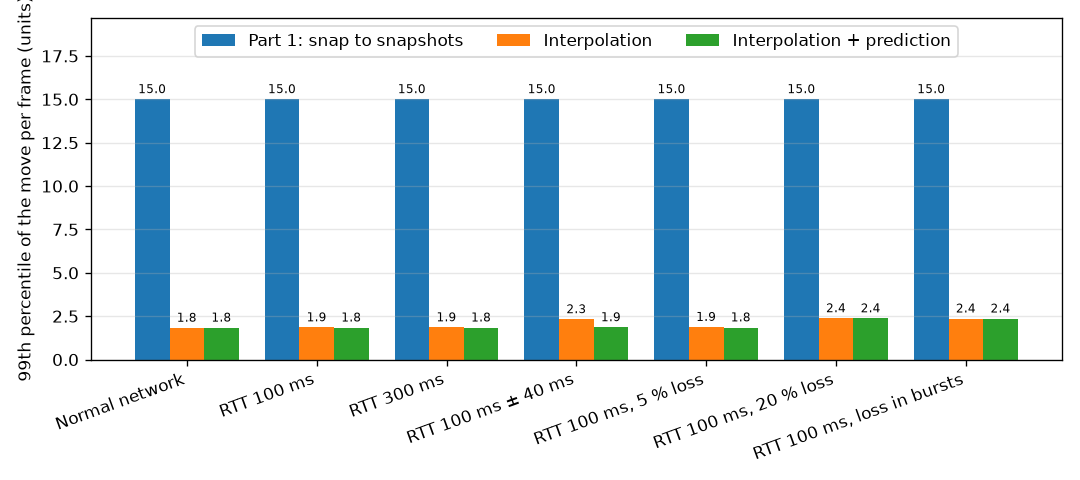
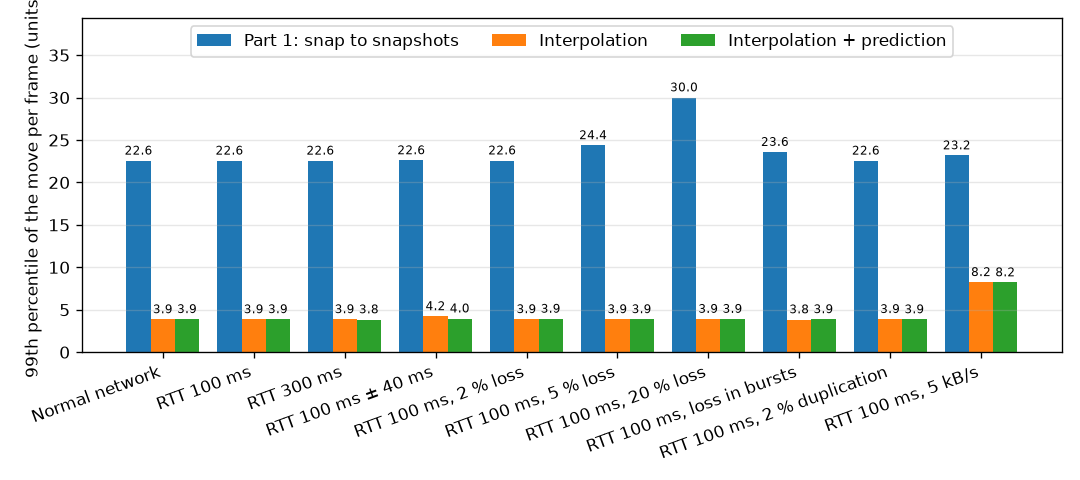
(network) docs: duplication and low bandwidth results
Add the 2 % loss, 2 % duplication and 5 kB/s scenarios to the network
benchmark and the testing guide, with new measures and their limits.
Closes #101.

diff --git a/tools/netbench.py b/tools/netbench.py
@@ -47,9 +47,12 @@ SCENARIOS = {
     "latency": ("RTT 100 ms", "delay 50ms"),
     "high-latency": ("RTT 300 ms", "delay 150ms"),
     "jitter": ("RTT 100 ms ± 40 ms", "delay 50ms 20ms"),
+    "loss-2": ("RTT 100 ms, 2 % loss", "delay 50ms loss 2%"),
     "loss-5": ("RTT 100 ms, 5 % loss", "delay 50ms loss 5%"),
     "loss-20": ("RTT 100 ms, 20 % loss", "delay 50ms loss 20%"),
     "bursts": ("RTT 100 ms, loss in bursts", "delay 50ms loss gemodel 1% 30%"),
+    "duplicate": ("RTT 100 ms, 2 % duplication", "delay 50ms duplicate 2%"),
+    "bandwidth": ("RTT 100 ms, 5 kB/s", "delay 50ms rate 40kbit"),
 }
 
 # Name, client options.

diff --git a/docs/NETWORK_COMPARISON.md b/docs/NETWORK_COMPARISON.md
@@ -29,7 +29,7 @@ changes, so any difference comes from it.
 - **Network conditions:** the scenarios of the
   [network testing guide](NETWORK_TESTING.md), applied with `tc netem` to the
   game's UDP traffic on the loopback interface: normal network, latency, high
-  latency, jitter, random loss and loss in bursts.
+  latency, jitter, random loss, loss in bursts, duplication and low bandwidth.
 - **Same game every time:** each run starts a fresh server with
   `--invincible`, so the measured ship never dies, and one client with
   `--bench`.
@@ -54,67 +54,82 @@ changes, so any difference comes from it.
 
 <!-- results:begin -->
 
-Generated by `tools/netbench.py` on 2026-11-03: 30 s per run, client at about 240 frames per second.
+Generated by `tools/netbench.py` on 2026-11-05: 30 s per run, client at about 240 frames per second.
 
 **Input-to-display delay of the local ship, median (95th percentile), in ms**
 
 | Scenario | Part 1: snap to snapshots | Interpolation | Interpolation + prediction |
 |---|---:|---:|---:|
-| Normal network | 47 (56) | 50 (56) | 0 (6) |
-| RTT 100 ms | 142 (148) | 142 (148) | 0 (6) |
-| RTT 300 ms | 351 (359) | 353 (359) | 0 (6) |
-| RTT 100 ms ± 40 ms | 106 (168) | 134 (159) | 0 (5) |
-| RTT 100 ms, 5 % loss | 147 (151) | 150 (200) | 0 (6) |
-| RTT 100 ms, 20 % loss | 153 (250) | 153 (203) | 0 (6) |
-| RTT 100 ms, loss in bursts | 147 (192) | 147 (197) | 0 (5) |
+| Normal network | 53 (61) | 42 (50) | 0 (0) |
+| RTT 100 ms | 150 (158) | 147 (155) | 0 (5) |
+| RTT 300 ms | 345 (350) | 342 (350) | 0 (0) |
+| RTT 100 ms ± 40 ms | 139 (158) | 142 (153) | 0 (0) |
+| RTT 100 ms, 2 % loss | 150 (156) | 151 (158) | 0 (7) |
+| RTT 100 ms, 5 % loss | 147 (192) | 148 (156) | 0 (0) |
+| RTT 100 ms, 20 % loss | 151 (253) | 150 (197) | 0 (8) |
+| RTT 100 ms, loss in bursts | 153 (159) | 149 (202) | 0 (0) |
+| RTT 100 ms, 2 % duplication | 150 (156) | 153 (158) | 0 (0) |
+| RTT 100 ms, 5 kB/s | 197 (885), 13 missed | 189 (976), 14 missed | 0 (0) |
 
 **Frames where a synced entity is frozen on screen**
 
 | Scenario | Part 1: snap to snapshots | Interpolation | Interpolation + prediction |
 |---|---:|---:|---:|
-| Normal network | 91.6 % | 2.3 % | 2.7 % |
-| RTT 100 ms | 91.7 % | 2.9 % | 2.8 % |
-| RTT 300 ms | 91.7 % | 2.8 % | 2.5 % |
-| RTT 100 ms ± 40 ms | 91.7 % | 2.8 % | 2.7 % |
-| RTT 100 ms, 5 % loss | 92.1 % | 2.7 % | 2.8 % |
-| RTT 100 ms, 20 % loss | 93.3 % | 2.7 % | 2.8 % |
-| RTT 100 ms, loss in bursts | 92.0 % | 2.7 % | 2.8 % |
+| Normal network | 91.7 % | 1.5 % | 1.5 % |
+| RTT 100 ms | 91.7 % | 1.5 % | 1.5 % |
+| RTT 300 ms | 91.7 % | 1.5 % | 1.5 % |
+| RTT 100 ms ± 40 ms | 91.5 % | 1.5 % | 1.5 % |
+| RTT 100 ms, 2 % loss | 91.9 % | 1.5 % | 1.5 % |
+| RTT 100 ms, 5 % loss | 92.1 % | 1.5 % | 1.5 % |
+| RTT 100 ms, 20 % loss | 93.5 % | 1.6 % | 1.6 % |
+| RTT 100 ms, loss in bursts | 91.9 % | 1.5 % | 1.5 % |
+| RTT 100 ms, 2 % duplication | 91.7 % | 1.5 % | 1.5 % |
+| RTT 100 ms, 5 kB/s | 94.8 % | 1.3 % | 1.3 % |
 
 **99th percentile of the move of an entity in one frame, in playfield units**
 
 | Scenario | Part 1: snap to snapshots | Interpolation | Interpolation + prediction |
 |---|---:|---:|---:|
-| Normal network | 15.0 | 1.8 | 1.8 |
-| RTT 100 ms | 15.0 | 1.9 | 1.8 |
-| RTT 300 ms | 15.0 | 1.9 | 1.8 |
-| RTT 100 ms ± 40 ms | 15.0 | 2.3 | 1.9 |
-| RTT 100 ms, 5 % loss | 15.0 | 1.9 | 1.8 |
-| RTT 100 ms, 20 % loss | 15.0 | 2.4 | 2.4 |
-| RTT 100 ms, loss in bursts | 15.0 | 2.4 | 2.4 |
+| Normal network | 22.6 | 3.9 | 3.9 |
+| RTT 100 ms | 22.6 | 3.9 | 3.9 |
+| RTT 300 ms | 22.6 | 3.9 | 3.8 |
+| RTT 100 ms ± 40 ms | 22.6 | 4.2 | 4.0 |
+| RTT 100 ms, 2 % loss | 22.6 | 3.9 | 3.9 |
+| RTT 100 ms, 5 % loss | 24.4 | 3.9 | 3.9 |
+| RTT 100 ms, 20 % loss | 30.0 | 3.9 | 3.9 |
+| RTT 100 ms, loss in bursts | 23.6 | 3.8 | 3.9 |
+| RTT 100 ms, 2 % duplication | 22.6 | 3.9 | 3.9 |
+| RTT 100 ms, 5 kB/s | 23.2 | 8.2 | 8.2 |
 
 **Corrections of the predicted ship per second, and their median size in playfield units**
 
 | Scenario | Part 1: snap to snapshots | Interpolation | Interpolation + prediction |
 |---|---:|---:|---:|
-| Normal network | n/a | n/a | 6.1 (0.1) |
-| RTT 100 ms | n/a | n/a | 6.2 (0.1) |
-| RTT 300 ms | n/a | n/a | 5.7 (0.1) |
-| RTT 100 ms ± 40 ms | n/a | n/a | 6.8 (2.5) |
-| RTT 100 ms, 5 % loss | n/a | n/a | 5.9 (0.2) |
-| RTT 100 ms, 20 % loss | n/a | n/a | 4.7 (0.8) |
-| RTT 100 ms, loss in bursts | n/a | n/a | 5.8 (0.3) |
+| Normal network | n/a | n/a | 7.0 (8.5) |
+| RTT 100 ms | n/a | n/a | 6.9 (8.4) |
+| RTT 300 ms | n/a | n/a | 6.8 (8.4) |
+| RTT 100 ms ± 40 ms | n/a | n/a | 6.8 (8.5) |
+| RTT 100 ms, 2 % loss | n/a | n/a | 6.8 (8.4) |
+| RTT 100 ms, 5 % loss | n/a | n/a | 5.9 (8.2) |
+| RTT 100 ms, 20 % loss | n/a | n/a | 5.9 (8.4) |
+| RTT 100 ms, loss in bursts | n/a | n/a | 6.7 (8.3) |
+| RTT 100 ms, 2 % duplication | n/a | n/a | 6.9 (8.3) |
+| RTT 100 ms, 5 kB/s | n/a | n/a | 21.8 (2.6) |
 
 **Traffic of the client, received / sent, in bytes per second**
 
 | Scenario | Part 1: snap to snapshots | Interpolation | Interpolation + prediction |
 |---|---:|---:|---:|
-| Normal network | 3820 / 4058 | 4103 / 4074 | 5544 / 4074 |
-| RTT 100 ms | 5243 / 4074 | 8157 / 4074 | 6581 / 4074 |
-| RTT 300 ms | 8346 / 4073 | 7217 / 4074 | 5626 / 4074 |
-| RTT 100 ms ± 40 ms | 4942 / 4074 | 6252 / 4007 | 5931 / 4074 |
-| RTT 100 ms, 5 % loss | 4850 / 4074 | 5034 / 4074 | 6349 / 4074 |
-| RTT 100 ms, 20 % loss | 4715 / 4074 | 3589 / 4072 | 4024 / 4074 |
-| RTT 100 ms, loss in bursts | 5163 / 4074 | 4744 / 4074 | 5080 / 4074 |
+| Normal network | 3524 / 520 | 3525 / 517 | 3525 / 519 |
+| RTT 100 ms | 3538 / 518 | 3537 / 518 | 3536 / 518 |
+| RTT 300 ms | 3561 / 519 | 3560 / 518 | 3562 / 521 |
+| RTT 100 ms ± 40 ms | 3527 / 526 | 3531 / 521 | 3527 / 520 |
+| RTT 100 ms, 2 % loss | 3438 / 519 | 3444 / 519 | 3463 / 518 |
+| RTT 100 ms, 5 % loss | 3363 / 522 | 3372 / 517 | 3359 / 518 |
+| RTT 100 ms, 20 % loss | 2769 / 519 | 2775 / 517 | 2814 / 519 |
+| RTT 100 ms, loss in bursts | 3446 / 520 | 3458 / 520 | 3469 / 520 |
+| RTT 100 ms, 2 % duplication | 3602 / 520 | 3584 / 518 | 3593 / 519 |
+| RTT 100 ms, 5 kB/s | 2403 / 518 | 2403 / 522 | 2404 / 518 |
 
 ![Median input-to-display delay (ms)](images/network-comparison/netbench-delay.png)
 
@@ -129,10 +144,10 @@ Generated by `tools/netbench.py` on 2026-11-03: 30 s per run, client at about 24
 **Smoothness: interpolation removes the stutter.** The server sends 20
 snapshots per second and the client draws about 240 frames per second. When it
 snaps to each snapshot, an entity stays still for 11 frames out of 12 (92 %
-frozen frames) and then jumps its whole 50 ms move at once (15 units for an
-enemy). With interpolation it moves a little on every frame: under 3 % frozen
-frames, and the largest per-frame moves are about 8 times smaller. The
-remaining 3 % are mostly new entities, which wait about 100 ms at their spawn
+frozen frames) and then jumps its whole 50 ms move at once (over 20 units for
+the fastest ones). With interpolation it moves a little on every frame: under
+2 % frozen frames, and the largest per-frame moves are about 6 times smaller.
+The remaining 1.5 % are mostly new entities, which wait about 100 ms at their spawn
 point for the render clock to reach their first snapshot.
 
 **Robust to the network.** The interpolation figures barely move from a
@@ -146,23 +161,51 @@ and its snapshot has come back: about 50 ms on a perfect network (waiting for
 the next snapshot), then the round-trip time plus 50 ms (about 150 ms at
 100 ms RTT, 350 ms at 300 ms RTT, up to 250 ms with 20 % loss).
 Interpolation does not change this. With prediction, the ship moves in the
-very frame of the key press (0 ms median, under 6 ms in 95 % of the presses,
-that is one frame), whatever the network.
+very frame of the key press (0 ms median, at most two frames in 95 % of the
+presses), whatever the network.
 
-**The server stays in charge.** The predicted ship is corrected about 6 times
-per second, each time a snapshot shows a small difference with the
-prediction. On a stable network these corrections are tiny (a tenth of a unit,
-the ship is 64 units wide): the client moves the ship with the same code as
-the server. They grow with jitter (2.5 units) and heavy loss (0.8 units),
-because the server then applies the inputs at less regular times. Each
-correction fades out over about 0.3 s instead of being drawn as a jump.
+**The server stays in charge.** While the ship moves, each snapshot corrects
+the prediction by about 8 units (the ship is 64 units wide), and at most about
+18. This comes from the input rate: between two inputs the server keeps moving
+the ship while the client also replays these frames, so the difference depends
+on when the last input arrived. Each correction fades out over about 0.3 s
+instead of being drawn as a jump. Measured on a normal network at 240 frames
+per second:
 
-**Bandwidth is unchanged.** Interpolation and prediction add no packet. The
-version 2 protocol adds 4 bytes per player to each snapshot (`lastInput`). The
-received traffic varies between runs (about 3.5 to 8 kB/s) with the number of
-enemies on screen, not with the mode. The client sends about 4 kB/s because
-it sends one input per displayed frame: at 240 frames per second, this is the
-main cost of the upload, and a fixed input rate would reduce it.
+| Time between two inputs | Median correction | 95th percentile | Largest | Sent |
+|---:|---:|---:|---:|---:|
+| One input per frame (about 4 ms) | 0.3 | 2.9 | 4.2 | 4030 B/s |
+| 16 ms, like a client at 60 frames per second | 0.1 | 12.6 | 14.4 | 1020 B/s |
+| 30 ms (kept) | 8.3 | 14.7 | 17.8 | 520 B/s |
+
+**Inputs: a fixed rate for every frame rate.** The client used to send one
+input per displayed frame, which is 4 kB/s at 240 frames per second, and about
+11 kB/s with the packet headers. It now sends one when the actions change, and
+otherwise every 30 ms. The keys still reach the server as soon as they change,
+and the upload is divided by 8. Interpolation and prediction add no packet:
+the received traffic does not depend on the mode.
+
+**Duplication and loss: no effect beyond the lost data.** With 2 % duplication
+the figures are the same as without it. With 50 % duplication, in a separate
+20 s run, the server logged no warning and neither program failed: inputs and
+snapshots older than the newest are ignored, and reliable messages are
+delivered once. 2 % loss barely differs from 5 %.
+
+**Low bandwidth: playable for a few seconds, then late.** The 5 kB/s scenario
+limits both directions together. Before the fixed input rate, the inputs alone
+filled this limit: the client received about 530 B/s and none of the key
+presses of a 12 s run was shown. Now the game needs about 6.1 kB/s with the
+headers (4.4 kB/s of snapshots, 1.8 kB/s of inputs). The first 7 seconds run
+with about 190 ms of delay, then the queue fills as enemies appear: the delay
+reaches about 900 ms after 10 s, and about half of the presses are not shown
+within the 1 s window (13 "missed" above). Limiting each direction to 5 kB/s
+instead, as a real link would, is better but not enough: in a separate 30 s
+run the delay stays around 180 ms for 11 s, then rises above 1 s when enemies
+are numerous, and comes back down afterwards (5 presses out of 29 missed).
+Nothing crashes or disconnects in either case, and the local ship stays
+responsive thanks to prediction. Holding at 5 kB/s would need smaller
+snapshots or fewer of them: every snapshot sends all the entities, 20 times
+per second.
 
 **Costs and limits.**
 
@@ -196,7 +239,7 @@ with their charts in `docs/images/network-comparison/`. Useful options:
 |--------|--------|
 | `run` / `report` | Only measure, or only rewrite the results from the last measures. |
 | `-d SECONDS` | Duration of each run (default 30). |
-| `-s SCENARIO...` | Only some scenarios: `normal`, `latency`, `high-latency`, `jitter`, `loss-5`, `loss-20`, `bursts`. |
+| `-s SCENARIO...` | Only some scenarios: `normal`, `latency`, `high-latency`, `jitter`, `loss-2`, `loss-5`, `loss-20`, `bursts`, `duplicate`, `bandwidth`. |
 | `-m MODE...` | Only some client modes: `snap`, `interpolation`, `prediction`. The report keeps the last measures of the other modes. |
 | `--no-netem` | Measure the current network without `tc` (one "normal" run per mode). |
 | `--no-charts` | Tables only, without installing matplotlib. |

diff --git a/docs/NETWORK_TESTING.md b/docs/NETWORK_TESTING.md
@@ -1,10 +1,10 @@
 # Testing under a degraded network
 
 This guide shows how to play R-Type on one machine as if the players were far
-from the server: added latency, jitter and packet loss. It uses `tc netem`,
-the Linux network emulator, on the loopback interface, and only slows down the
-game's traffic (UDP port 4242). Everything else on the machine keeps its normal
-speed.
+from the server: added latency, jitter, packet loss, duplication and low
+bandwidth. It uses `tc netem`, the Linux network emulator, on the loopback
+interface, and only slows down the game's traffic (UDP port 4242). Everything
+else on the machine keeps its normal speed.
 
 ## Contents
 
@@ -70,14 +70,22 @@ trip time (RTT) of about 100 ms.
 | Latency (RTT ~100 ms) | `sudo tc qdisc change dev lo parent 1:3 handle 30: netem delay 50ms` |
 | High latency (RTT ~300 ms) | `sudo tc qdisc change dev lo parent 1:3 handle 30: netem delay 150ms` |
 | Jitter (50 ms ± 20 ms, packets reordered) | `sudo tc qdisc change dev lo parent 1:3 handle 30: netem delay 50ms 20ms` |
+| 2 % packet loss | `sudo tc qdisc change dev lo parent 1:3 handle 30: netem delay 50ms loss 2%` |
 | 5 % packet loss | `sudo tc qdisc change dev lo parent 1:3 handle 30: netem delay 50ms loss 5%` |
 | 20 % packet loss | `sudo tc qdisc change dev lo parent 1:3 handle 30: netem delay 50ms loss 20%` |
 | Loss in bursts | `sudo tc qdisc change dev lo parent 1:3 handle 30: netem delay 50ms loss gemodel 1% 30%` |
+| 2 % packet duplication | `sudo tc qdisc change dev lo parent 1:3 handle 30: netem delay 50ms duplicate 2%` |
+| Low bandwidth (5 kB/s) | `sudo tc qdisc change dev lo parent 1:3 handle 30: netem delay 50ms rate 40kbit` |
 | Connection cut | `sudo tc qdisc change dev lo parent 1:3 handle 30: netem loss 100%` |
 
 "Loss in bursts" uses the Gilbert-Elliott model: each packet has a 1 % chance
 of starting a burst of losses, and each lost packet a 30 % chance of ending it.
 It is closer to a real Wi-Fi or mobile network than random loss.
+
+"Low bandwidth" limits both directions together, because they share this one
+queue on `lo`: `rate` is in bits per second, so 40 kbit/s is 5 kB/s, packet
+headers included. What does not fit waits in the queue, up to 1000 packets, so
+an overload shows as a growing delay rather than as lost packets.
 
 For a connection cut, leave it a few seconds, then switch back to another
 scenario. After 5 seconds without any packet, the client and the server
@@ -97,6 +105,8 @@ tc qdisc show dev lo
 | Latency, jitter | The enemies, the missiles and the other player's ship move smoothly, without stutter or going backwards. Your own ship answers the keys at once. |
 | Packet loss | Entities keep moving through the gaps, without visible teleports. |
 | Loss in bursts | During a long gap an entity stops, then catches up smoothly. |
+| Packet duplication | No visible difference with the same latency without duplication: duplicates are ignored, and no event happens twice. |
+| Low bandwidth | See the limits measured in the [network performance comparison](NETWORK_COMPARISON.md#5-analysis). No crash, no disconnection. |
 | Connection cut (less than 5 s) | The game resumes and everything gets back in place. |
 | Connection cut (more than 5 s) | The client shows "Connection to the server lost", the server frees the slot and tells the other players. |
 
